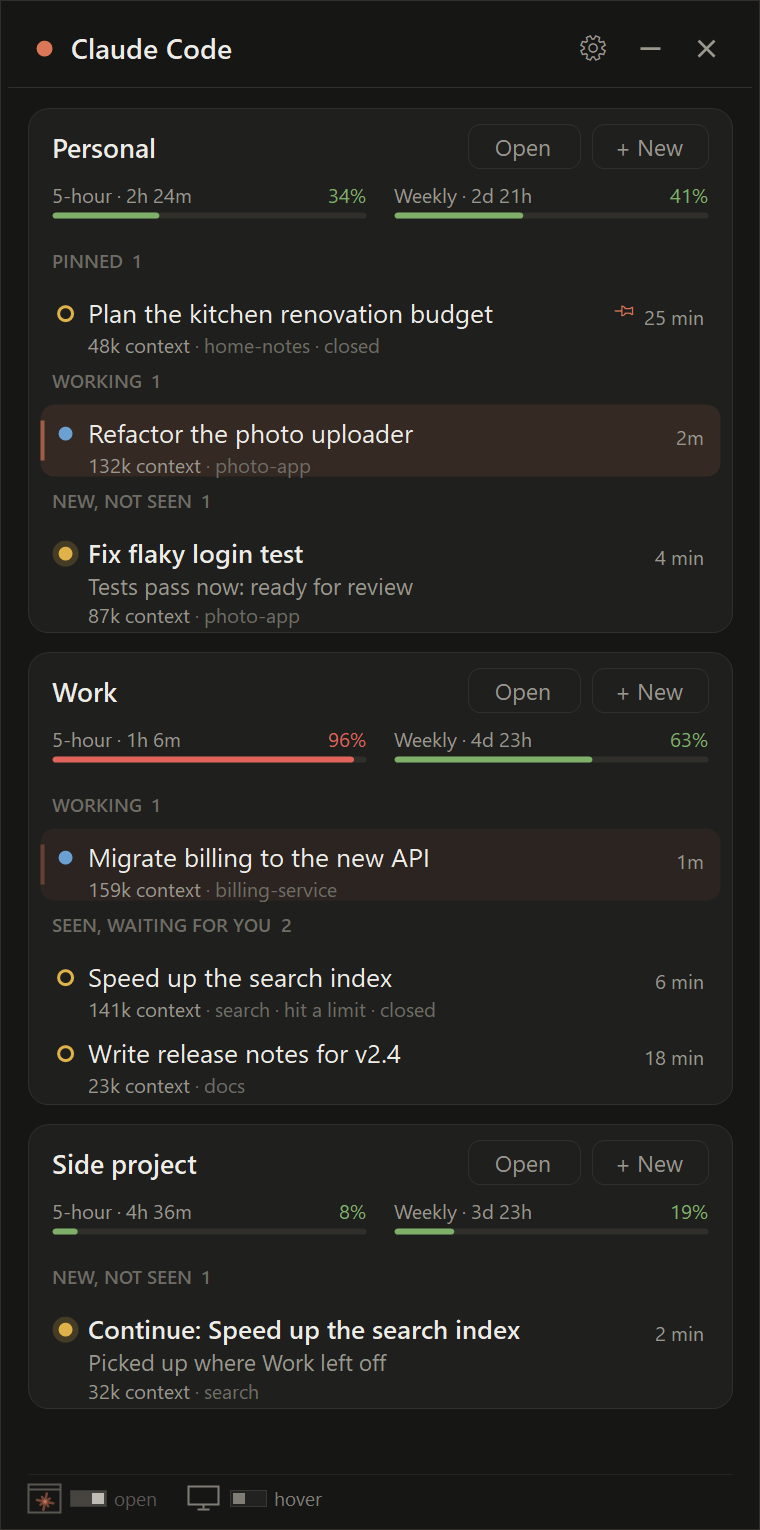
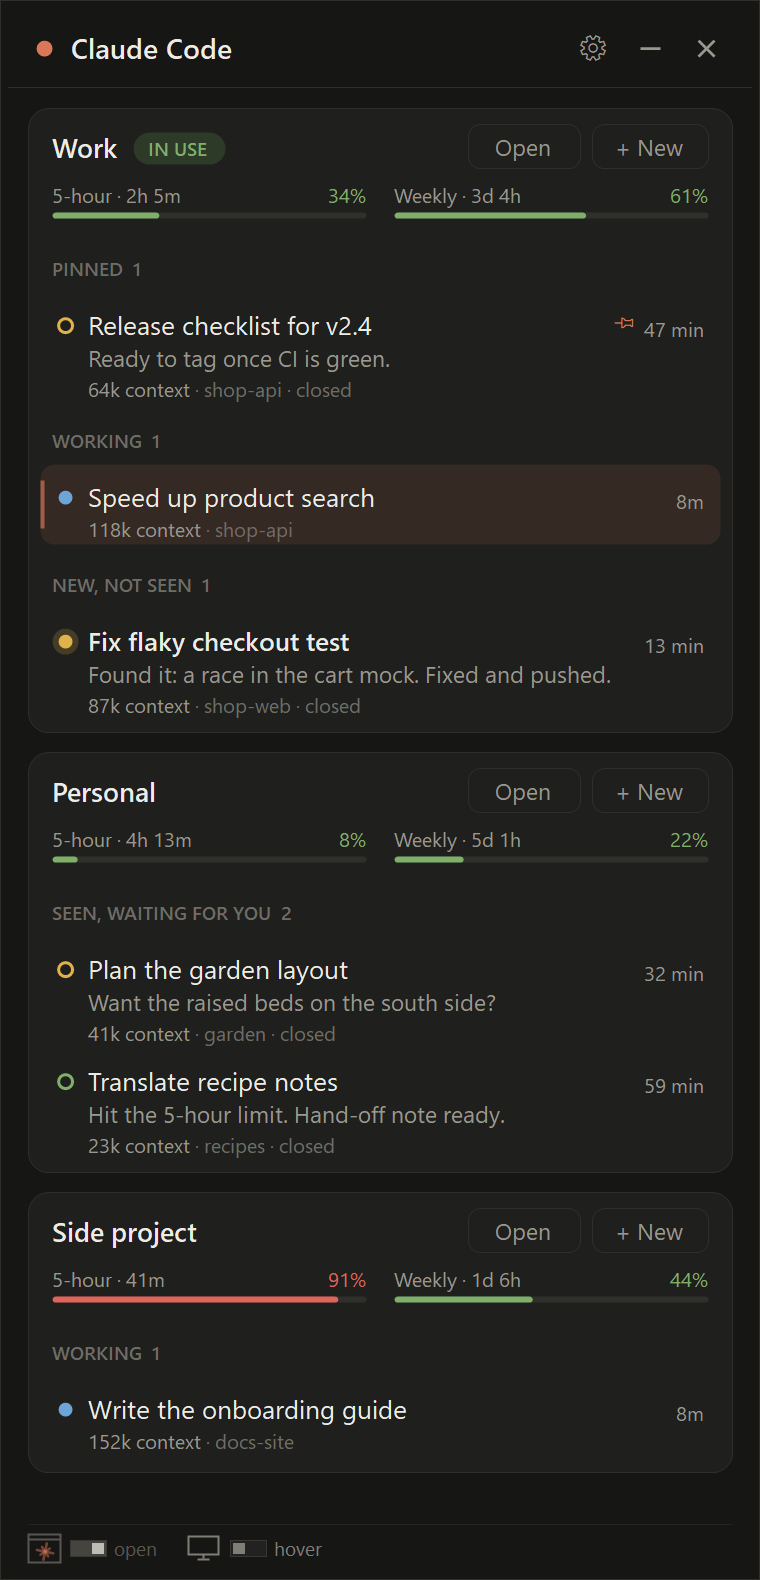
Settings gap, sturdier auto-send, note asks that respect existing notes, roomier panel, README refresh
- Accounts window: the account list is only as tall as its rows, so the
  settings sit right under it instead of after a big empty gap
- Auto-send: after pressing Enter it checks the new chat started and presses
  again up to four times, waiting longer each time; an account that was
  closed gets time to start before the press; every check is logged
- Hand-off notes: "already has a note" and "quiet for over an hour" now go by
  the chat's last real message, not the file's change time (opening an old
  chat writes setup lines that made it look fresh, so it was asked for a
  second note and woken at full price); the plugin's own asks don't count
- Plugin 0.5.1: a quiet-chat request picked up more than 2 minutes late is
  dropped instead of waking the chat after its hour has run out
- Panel: a little more space in rows and between groups and cards
- README: hand-off card, hand-off notes, 5-hour clock, Open button, account
  order and the full settings list; new pictures from sample accounts,
  including the hand-off card

diff --git a/plugins/limits-beacon/hooks/register.ts b/plugins/limits-beacon/hooks/register.ts
@@ -84,7 +84,9 @@ async function checkRequest($: EngineInterface) {
     if (r.why === 'quiet') why = 'quiet'
   } catch { return }
   const now = await $.clock.now()
-  if (!at || now - at > REQUEST_MAX_AGE_MS) return
+  // A quiet-chat request is only worth it before Claude's hour of memory runs out: the tracker asks at
+  // 55 minutes, so one picked up late (the chat was asleep) is dropped rather than waking it at full price.
+  if (!at || now - at > (why === 'quiet' ? 2 * 60 * 1000 : REQUEST_MAX_AGE_MS)) return
   const st = await readStage($, id)
   if (st?.requested === at) return
   // A window name of its own, so the 5-hour stop can still ask for a fresh note later in this window.

diff --git a/src/tracker/Tray.cs b/src/tracker/Tray.cs
@@ -111,6 +111,16 @@ static class ClaudeTray
             if (args.Length > 5) panel.RenderBar(args[5]);   // and the bar on the taskbar
             return;
         }
+        if (args.Length > 3 && args[0] == "--render-handoff")   // for pictures: draws the hand-off card for one chat from saved data (JSON)
+        {
+            State = (Dictionary<string, object>)new JavaScriptSerializer { MaxJsonLength = int.MaxValue }.DeserializeObject(File.ReadAllText(args[1]));
+            using (var f = new HandoffPicker(args[3]) { Location = new Point(-5000, -5000) })
+            {
+                f.Show(); Application.DoEvents();
+                using (var b = new Bitmap(f.Width, f.Height)) { f.DrawToBitmap(b, new Rectangle(0, 0, f.Width, f.Height)); b.Save(args[2]); }
+            }
+            return;
+        }
         if (args.Length > 0 && args[0] == "--manage") { Application.Run(new ManageForm()); return; }
 
         bool first;
@@ -609,10 +619,11 @@ static class ClaudeTray
 
     // Enter sometimes lands before the box is ready and nothing is sent. A few seconds after pressing it,
     // look for the new chat; if none started, press Enter again (an empty box ignores an extra Enter).
-    // Two retries, then a note to press it yourself.
+    // Four retries, waiting longer each time (a slow or just-started account), then a note to press it yourself.
+    static readonly int[] SendChecks = { 6000, 5000, 8000, 12000, 15000 };
     static void MakeSureSent(string sid, int n, DateTime since, string toName, int attempt = 0)
     {
-        var t = new System.Windows.Forms.Timer { Interval = attempt == 0 ? 6000 : 5000 };
+        var t = new System.Windows.Forms.Timer { Interval = SendChecks[Math.Min(attempt, SendChecks.Length - 1)] };
         t.Tick += (s, e) =>
         {
             t.Stop(); t.Dispose();
@@ -625,12 +636,14 @@ static class ClaudeTray
                 {
                     panel.BeginInvoke((Action)(() =>
                     {
-                        if (started) { Fetch(); return; }
-                        if (attempt >= 2 || win == IntPtr.Zero)
+                        if (started) { AutoSend.Note("hand-off check " + attempt + ": new chat started"); Fetch(); return; }
+                        if (attempt >= SendChecks.Length - 1 || win == IntPtr.Zero)
                         {
+                            AutoSend.Note("hand-off check " + attempt + ": no new chat; " + (win == IntPtr.Zero ? "account window gone" : "giving up") + ", asked you to press Enter");
                             tray.ShowBalloonTip(8000, "Press Enter to continue", "The hand-off is in the new chat" + (toName != null ? " on " + toName : "") + " but didn't send. Press Enter there.", ToolTipIcon.Info);
                             return;
                         }
+                        AutoSend.Note("hand-off check " + attempt + ": no new chat yet, pressing Enter again");
                         AutoSend.PressEnter(win, ok => MakeSureSent(sid, n, since, toName, attempt + 1));
                     }));
                 }
@@ -1753,19 +1766,20 @@ class Board : DoubleBufferedControl
         {
             var items = ClaudeTray.Arr(a, gr[0]);
             if (items.Length == 0) continue;
+            if (any) h += P(4);
             any = true;
-            h += P(22);
+            h += P(26);
             foreach (Dictionary<string, object> it in items) h += RowHeight(it, gr[0]);
         }
         if (!any) h += P(22);
-        return h + P(6);
+        return h + P(10);
     }
 
     int RowHeight(Dictionary<string, object> it, string key)
     {
         string k = key == "pinned" ? (it["state"] as string ?? "idle") : key;
         if (k == "background") k = "working";
-        return P(k != "working" && it["detail"] != null ? 52 : 38);
+        return P(k != "working" && it["detail"] != null ? 56 : 42);
     }
 
     string AsOf(Dictionary<string, object> a)
@@ -1847,9 +1861,10 @@ class Board : DoubleBufferedControl
         {
             var items = ClaudeTray.Arr(a, gr[0]);
             if (items.Length == 0) continue;
+            if (any) y += P(4);   // a little air between groups
             any = true;
-            TextRenderer.DrawText(g, gr[1] + "  " + items.Length, fLabel, new Point(x, y + P(4)), Ui.Faint, TextFormatFlags.NoPadding);
-            y += P(22);
+            TextRenderer.DrawText(g, gr[1] + "  " + items.Length, fLabel, new Point(x, y + P(8)), Ui.Faint, TextFormatFlags.NoPadding);
+            y += P(26);
             foreach (Dictionary<string, object> it in items) y += DrawRow(g, it, gr[0], x - P(6), y, w + P(12));
         }
         if (!any) TextRenderer.DrawText(g, "No active conversations", fSmall, new Point(x, y + P(2)), Ui.Faint, TextFormatFlags.NoPadding);
@@ -1907,7 +1922,7 @@ class Board : DoubleBufferedControl
         string sid = it.ContainsKey("sessionId") ? it["sessionId"] as string : null;
         // dot: yellow when it's yours to look at, green instead once the chat has written its hand-off note
         Color yours = it.ContainsKey("noteReady") && it["noteReady"] is bool && (bool)it["noteReady"] ? Ui.Ok : Ui.Warn;
-        int dx = x + P(9), dy = y + P(11);
+        int dx = x + P(9), dy = y + P(13);
         var dotR = new RectangleF(dx, dy, P(7), P(7));
         if (realKey == "idle") using (var pen = new Pen(Ui.Faint, 1.5f * owner.S * zoom)) g.DrawEllipse(pen, dotR);
         else if (realKey == "working" && background)
@@ -1934,7 +1949,7 @@ class Board : DoubleBufferedControl
         {
             // Hover buttons, right to left: finish, pin, hand off.
             bool pinned = key == "pinned";
-            int bx = x + w - P(6) - P(24), by = y + P(4);
+            int bx = x + w - P(6) - P(24), by = y + P(6);
             DrawIconBtn(g, new Rectangle(bx, by, P(24), P(24)), "done", () => ClaudeTray.Mark(sid, "finish"));
             bx -= P(27);
             DrawIconBtn(g, new Rectangle(bx, by, P(24), P(24)), pinned ? "unpin" : "pin", () => ClaudeTray.Mark(sid, pinned ? "unpin" : "pin"));
@@ -1948,18 +1963,18 @@ class Board : DoubleBufferedControl
             if (realKey == "working") when = Ui.Dur(Ui.Now() - ClaudeTray.Num(it["since"]));
             else when = Ui.Ago(ClaudeTray.Num(it["lastActivity"]));
             var ws = TextRenderer.MeasureText(g, when, fTiny, Size.Empty, TextFormatFlags.NoPadding);
-            TextRenderer.DrawText(g, when, fTiny, new Point(x + w - P(8) - ws.Width, y + P(9)), Ui.Dim, TextFormatFlags.NoPadding);
-            if (key == "pinned") TextRenderer.DrawText(g, "\uE718", fIconSmall, new Point(x + w - P(8) - ws.Width - P(15), y + P(9)), Ui.Accent, TextFormatFlags.NoPadding);
+            TextRenderer.DrawText(g, when, fTiny, new Point(x + w - P(8) - ws.Width, y + P(11)), Ui.Dim, TextFormatFlags.NoPadding);
+            if (key == "pinned") TextRenderer.DrawText(g, "\uE718", fIconSmall, new Point(x + w - P(8) - ws.Width - P(15), y + P(11)), Ui.Accent, TextFormatFlags.NoPadding);
         }
 
         var flags = TextFormatFlags.NoPadding | TextFormatFlags.EndEllipsis | TextFormatFlags.SingleLine;
-        int ty = y + P(5);
+        int ty = y + P(7);
         TextRenderer.DrawText(g, (string)it["title"], realKey == "unseen" ? fTitleBold : fTitle, new Rectangle(tx, ty, tw, P(18)), Ui.Text, flags);
         ty += P(18);
         if (realKey != "working" && it["detail"] != null)
         {
             TextRenderer.DrawText(g, (string)it["detail"], fSmall, new Rectangle(tx, ty, detailW, P(15)), Ui.Dim, flags);
-            ty += P(15);
+            ty += P(16);
         }
         var meta = new List<string>();
         if (it["folder"] != null) meta.Add((string)it["folder"]);
@@ -1979,7 +1994,7 @@ class Board : DoubleBufferedControl
             mx += TextRenderer.MeasureText(g, ctxText, fTiny, Size.Empty, TextFormatFlags.NoPadding).Width;
             if (meta.Count > 0) { TextRenderer.DrawText(g, " · ", fTiny, new Point(mx, ty), Ui.Faint, TextFormatFlags.NoPadding); mx += TextRenderer.MeasureText(g, " · ", fTiny, Size.Empty, TextFormatFlags.NoPadding).Width; }
         }
-        TextRenderer.DrawText(g, string.Join(" · ", meta), fTiny, new Rectangle(mx, ty, Math.Max(0, tx + (showBtns && ty < y + P(30) ? tw : tw + P(48)) - mx), P(14)), Ui.Faint, flags);
+        TextRenderer.DrawText(g, string.Join(" · ", meta), fTiny, new Rectangle(mx, ty, Math.Max(0, tx + (showBtns && ty < y + P(32) ? tw : tw + P(48)) - mx), P(14)), Ui.Faint, flags);
         return h;
     }
 }

diff --git a/src/tracker/Data.cs b/src/tracker/Data.cs
@@ -1294,15 +1294,51 @@ static class Data
     {
         var t = TranscriptOf(sid);
         if (t == null) return "nochat";
+        // Opening or resuming a chat writes bookkeeping lines into its file without any real message,
+        // so go by the last message you or Claude actually wrote, not by when the file changed.
+        DateTime last = LastMessageUtc(t.FullName) ?? t.LastWriteTimeUtc;
         var note = new FileInfo(Path.Combine(NotesDir, sid + ".md"));
-        if (note.Exists && note.Length > 0 && note.LastWriteTimeUtc >= t.LastWriteTimeUtc.AddMinutes(-2)) return "note";
-        if (DateTime.UtcNow - t.LastWriteTimeUtc > TimeSpan.FromHours(1)) return "old";
+        if (note.Exists && note.Length > 0 && note.LastWriteTimeUtc >= last.AddMinutes(-2)) return "note";
+        if (DateTime.UtcNow - last > TimeSpan.FromHours(1)) return "old";
         Dictionary<string, object> info;
         if (!LiveSessions().TryGetValue(sid, out info) || !Truthy(Get(info, "alive"))) return "closed";
         var reading = ReadJson(Path.Combine(BySessionDir, sid + ".json"));
         var five = (Get(reading, "rateLimits") as object[] ?? new object[0]).OfType<Dictionary<string, object>>().FirstOrDefault(l => Str(l, "kind") == "five_hour");
         if ((Dbl(Get(five, "percentUsed")) ?? 0) >= 99) return "full";
         return null;
+    }
+
+    // When the chat last had a real message: yours or Claude's, not a side helper's, not setup text.
+    // The plugin's own note asks, Claude's answers to them and a stop with Esc don't count.
+    static DateTime? LastMessageUtc(string path)
+    {
+        DateTime? last = null, ask = null;
+        foreach (var line in TailLines(path, TailBytes))
+        {
+            if (!line.StartsWith("{") || !(line.Contains("\"type\":\"assistant\"") || line.Contains("\"type\":\"user\""))) continue;
+            Dictionary<string, object> e;
+            try { e = Json.DeserializeObject(line) as Dictionary<string, object>; } catch { continue; }
+            if (e == null || Truthy(Get(e, "isSidechain")) || Truthy(Get(e, "isMeta"))) continue;
+            string type = Str(e, "type");
+            if (type != "assistant" && type != "user") continue;
+            var ts = Get(e, "timestamp") as string;
+            DateTime dt;
+            if (ts == null || !DateTime.TryParse(ts, System.Globalization.CultureInfo.InvariantCulture,
+                System.Globalization.DateTimeStyles.AdjustToUniversal | System.Globalization.DateTimeStyles.AssumeUniversal, out dt)) continue;
+            if (type == "user")
+            {
+                var msg = Obj(e, "message");
+                var content = Get(msg, "content") as object[];
+                string text = Get(msg, "content") as string ?? (content == null ? null : string.Concat(content.OfType<Dictionary<string, object>>().Select(c => Str(c, "text"))));
+                if (text != null && text.StartsWith("The limits-beacon plugin sent a message")) { ask = dt; continue; }
+                if (text != null && text.StartsWith("[Request interrupted by user")) continue;
+                bool toolResult = content != null && content.Any(c => c is Dictionary<string, object> && Str((Dictionary<string, object>)c, "type") == "tool_result");
+                if (!toolResult) ask = null;   // you wrote something yourself
+            }
+            if (ask != null && dt - ask.Value < TimeSpan.FromMinutes(10)) continue;   // Claude working on the note
+            last = dt;
+        }
+        return last;
     }
 
     // Leaves the request the limits plugin in that chat picks up within a few seconds.

diff --git a/src/tracker/AutoSend.cs b/src/tracker/AutoSend.cs
@@ -15,7 +15,13 @@ static class AutoSend
         {
             Thread.Sleep(3500);   // let the new chat load and fill in the message
             IntPtr win = Data.AccountWindow(n);
-            if (win == IntPtr.Zero) { Report(ui, done, false); return; }
+            // An account that wasn't open is still starting: wait for its window, then for it to load.
+            if (win == IntPtr.Zero)
+            {
+                for (int i = 0; i < 60 && win == IntPtr.Zero; i++) { Thread.Sleep(500); win = Data.AccountWindow(n); }
+                if (win == IntPtr.Zero) { Note("enter not sent, account " + n + " window never appeared"); Report(ui, done, false); return; }
+                Thread.Sleep(6000);
+            }
             try { ui.BeginInvoke((Action)(() => PressEnter(win, ok => done(ok)))); }
             catch { Report(ui, done, false); }
         });
@@ -143,7 +149,7 @@ static class AutoSend
         t.Start();
     }
 
-    static void Note(string line)
+    public static void Note(string line)
     {
         try { System.IO.File.AppendAllText(System.IO.Path.Combine(ClaudeTray.Dir, "handoff.log"), DateTime.Now.ToString("MM-dd HH:mm:ss.ff") + " " + line + Environment.NewLine); } catch { }
     }

diff --git a/src/tracker/Manage.cs b/src/tracker/Manage.cs
@@ -234,6 +234,23 @@ class ManageForm : Form
         list.Controls.Clear();
         foreach (var a in Accounts.All()) list.Controls.Add(MakeRow(a));
         list.ResumeLayout();
+        FitList();
+    }
+
+    // The account list is only as tall as its rows (up to five, then it scrolls), and the settings below move up to meet it.
+    void FitList()
+    {
+        int want = P(4);
+        foreach (Control c in list.Controls) want += c.Height + c.Margin.Vertical;
+        want = Math.Min(want, P(348));
+        int delta = want - list.Height;
+        if (delta == 0) return;
+        int bottom = list.Bottom;
+        SuspendLayout();
+        list.Height = want;
+        foreach (Control c in Controls) if (c != list && c.Top >= bottom) c.Top += delta;
+        ClientSize = new Size(ClientSize.Width, ClientSize.Height + delta);
+        ResumeLayout();
     }
 
     // Long jobs (building a launcher) run off this window's thread.

diff --git a/README.md b/README.md
@@ -12,16 +12,19 @@ For Windows. Nothing to download but this source: it builds on your PC with the 
   <img src="docs/settings.png" width="420" alt="The accounts window: name and icon for each account, plus settings for hiding conversations and handing off at the limit">
 </p>
 <p align="center">
-  <img src="docs/bar.png" width="216" alt="The bar on the taskbar: 34% of the 5-hour limit used, 2 new, 2 busy">
+  <img src="docs/handoff.png" width="340" alt="The hand-off card: each account with its 5-hour and weekly limits, the suggested one on top, the chat's own account last">
+  &nbsp;&nbsp;
+  <img src="docs/bar.png" width="216" alt="The bar on the taskbar: 34% of the 5-hour limit used, 1 new, 2 busy">
 </p>
-<p align="center"><sub>Sample accounts and conversations. Above: the panel and the settings window. Below: the bar that sits on the taskbar.</sub></p>
+<p align="center"><sub>Sample accounts and conversations. Above: the panel and the settings window. Below: the hand-off card and the bar that sits on the taskbar.</sub></p>
 
 ## What it does
 
 ### Several accounts, signed in at the same time
 - **One shortcut per account.** Each opens its own Claude window and stays signed in on its own; the accounts never merge or sign each other out.
 - **Its own taskbar button and icon.** Pick the Claude icon in any colour, the normal Claude icon, a number, or your own picture, so you can tell the windows apart at a glance.
-- **Add an account any time.** It opens straight on Claude's sign-in screen. Rename, recolour or remove accounts later.
+- **Add an account any time.** It opens straight on Claude's sign-in screen. Rename, recolour, reorder or remove accounts later.
+- **Open when Windows starts**, ticked per account.
 
 ### The taskbar widget (Claude Tracker)
 A small always-on-top panel, opened from its icon by the clock. The icon shows how much of your 5-hour limit you've used.
@@ -39,20 +42,27 @@ A small always-on-top panel, opened from its icon by the clock. The icon shows h
   - A chat that hit a limit sits with the others, marked "hit a limit".
 - **Context used** by each conversation (for example "132k context").
 - **One click** opens a conversation in the right account's window.
-- **+ New** starts a new Claude Code chat on that account.
+- **Open** brings up that account's Claude window, starting it if it's closed. **+ New** starts a new Claude Code chat on that account.
 - **Pin** a conversation to keep it at the top; **finish** it to clear it away (finishing unpins it).
-- **Hand off** any conversation to another account: a new chat opens there with a summary of the conversation already typed in.
+- **Hand off** any conversation to another account. A card lists every account with both limits and when they reset, marks the **suggested** one, greys out accounts that are too full, and puts the chat's own account last. Pick one (click, or arrow keys and Enter) and a new chat opens there with the conversation's hand-off note or a summary already typed in.
+
+### Hand-off notes
+So nothing decided earlier gets lost when a chat moves:
+- **Near the 5-hour limit** (for example at 95%), Claude finishes the step it is on, writes a short note (the goal, what was decided and why, what is done, the next step) and stops. The last few percent are kept so there is room to write it.
+- **Before a quiet chat is forgotten:** Claude remembers a chat cheaply for an hour after its last message. A bigger chat left alone for 55 minutes is asked to write its note while that is still cheap.
+- The new chat gets the note when the chat moves.
 
 ### Automatic hand-off at the limit
-When a conversation hits its usage limit, the tracker can move it to the account with the most room left. Choose to:
+When a conversation hits its usage limit, the tracker can move it to the suggested account (the same one the hand-off card marks). Choose to:
 - do nothing,
 - get a notification you click to move it,
 - move it and press Enter yourself, or
-- **move and send it by itself.** It brings the new chat to the front, holds your mouse and keyboard still for about half a second so the key can't land anywhere else, and presses Enter. If that window isn't in front, it doesn't send and tells you instead.
+- **move and send it by itself.** It brings the new chat to the front, holds your mouse and keyboard still for a moment so the key can't land anywhere else, and presses Enter. It then checks that the new chat really started and presses Enter again if it didn't (a few times, waiting longer each time). If the window isn't in front, or it still didn't start, it tells you to press Enter yourself.
 
-You choose:
-- **how to pick the account:** most weekly limit left, most 5-hour limit left, or most left on both. Room counts for more when a limit resets soon, because what's left is spread over the time until the reset.
-- **when an account is too full to take it:** for example once it has used 90% of its weekly or 5-hour limit.
+**How the account is suggested:** one with room left in its 5 hours (counting chats already running there) whose weekly limit is most likely to go unused before it resets. Close calls go to the one whose 5-hour limit resets sooner. You choose **when an account is too full to take it**, for example once it has used 90% of its weekly or 5-hour limit.
+
+### Starting each account's 5-hour clock
+Optional. When an account's 5-hour limit isn't counting down, the tracker sends it a one-line message in a new chat so the 5 hours start now, either only while you're away from the PC or any time. Accounts past the weekly "too full" setting are skipped. These chats don't show in the panel.
 
 ## Install
 
@@ -70,8 +80,13 @@ Windows may warn that the file came from the internet: choose **More info → Ru
 Use the **gear button** on the widget, or **Start menu → Claude Accounts → Manage Claude accounts**:
 
 - add, rename, recolour or remove accounts (removing closes the account first, and you choose whether to keep its sign-in)
+- the order accounts show in, and which ones open when Windows starts
 - how long a waiting conversation stays in the widget (30 minutes to 1 week; pinned ones always stay)
-- what happens when a conversation hits its limit, how the receiving account is picked, and when an account is too full
+- what happens when a conversation hits its limit, and when an account is too full to take it
+- whether the panel stays open or opens on hover, separately for when a Claude window is in front and for everything else
+- starting each account's 5-hour clock
+- whether the bar stays or hides over full-screen apps
+- hand-off notes near the 5-hour limit and before a quiet chat is forgotten
 
 ## How it works
 
